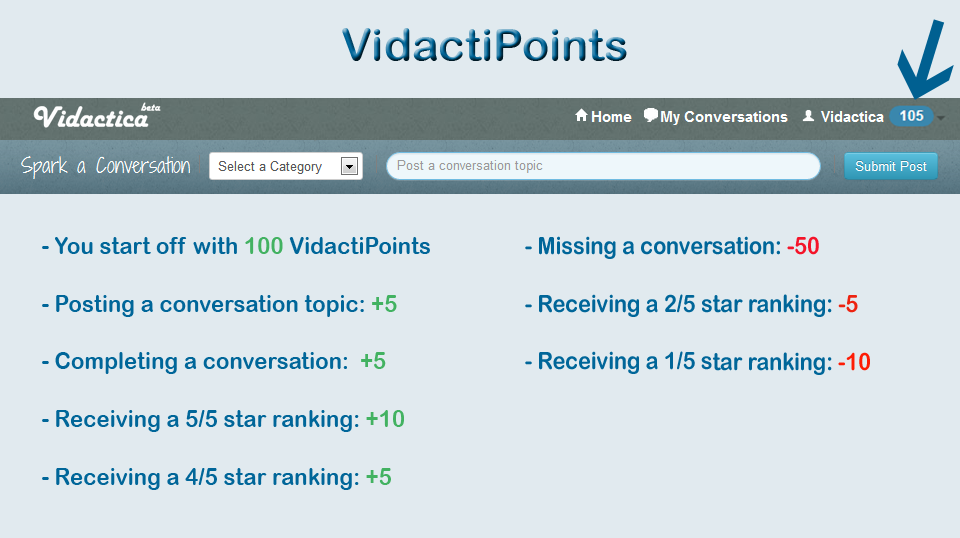
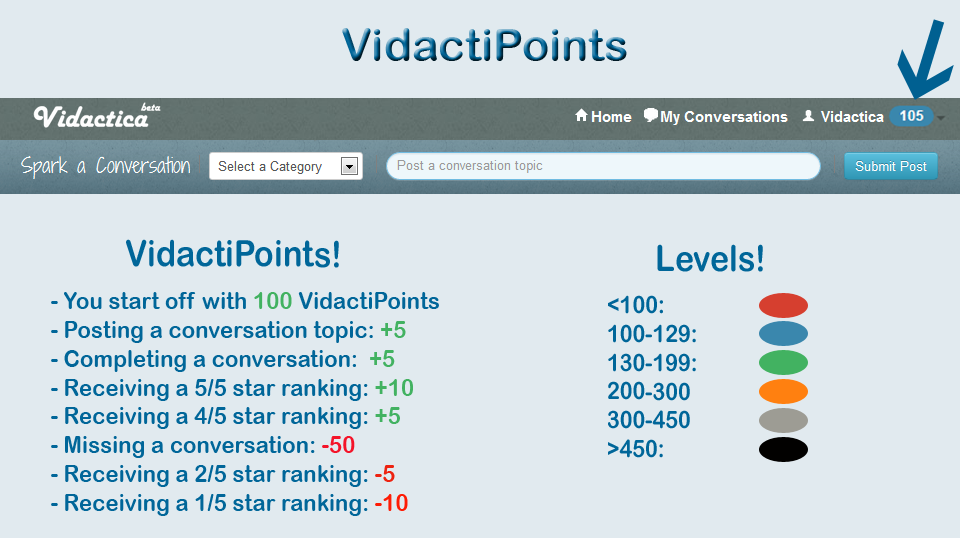
made red vs orange more distinct; added tour for points with color coding

diff --git a/app/assets/javascripts/FilesIncluded/coinsAjax.js b/app/assets/javascripts/FilesIncluded/coinsAjax.js
@@ -9,11 +9,11 @@ var getBadgeClass = function(coins)
 	else if(coins>130 && coins<=200)
 		return badgeColors.green;
 	else if(coins>200 && coins<=300)
-		return badgeColors.black;
+		return badgeColors.orange;
 	else if(coins>300 && coins<=450)
 		return badgeColors.grey;
 	else
-		return badgeColors.orange;
+		return badgeColors.black;
 }
 
 //$spanBadge: jQuery object of the span element which is the badge

diff --git a/app/assets/stylesheets/FilesIncluded/bootstrap.css b/app/assets/stylesheets/FilesIncluded/bootstrap.css
@@ -635,7 +635,7 @@ pre code {
   cursor: pointer;
 }
 .badge-important {
-  background-color: #b94a48;
+  background-color: #C00000;
 }
 .badge-important:hover {
   background-color: #953b39;
